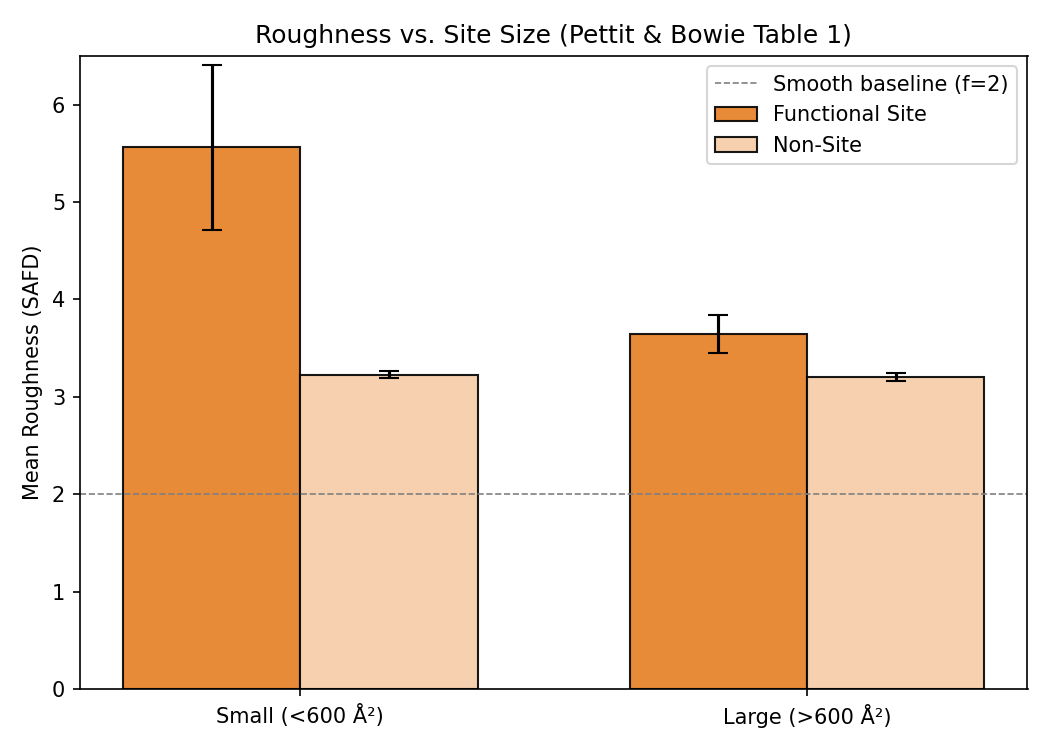
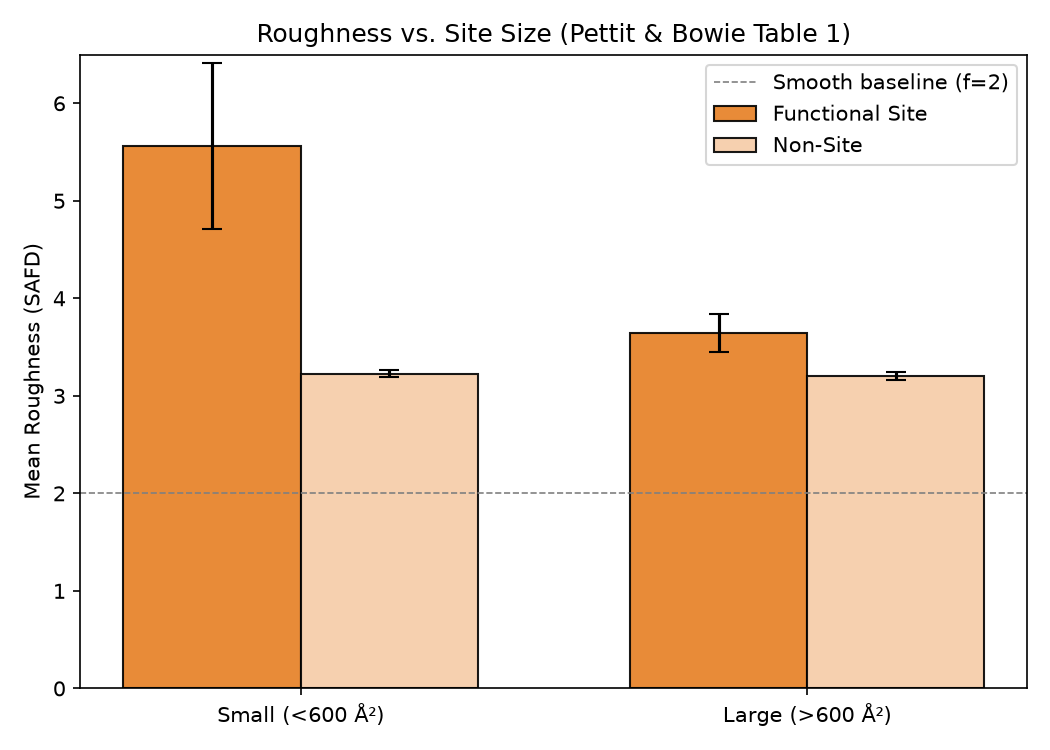
Add statistical derivations, SAFD score tables, and updated result figures

diff --git a/CALCULATIONS_AND_STATISTICAL_TABLES.md b/CALCULATIONS_AND_STATISTICAL_TABLES.md
@@ -1,0 +1,222 @@
+# 📊 SAFD Calculations, Statistical Derivations & Full Data Tables
+
+This document provides a complete, mathematically rigorous reference for how every value, roughness score ($\text{SAFD}$), standard error of the mean ($\text{SEM}$), and $p$-value was calculated in this project.
+
+---
+
+## 📑 Contents
+1. [Mathematical Formulations & Formulas](#1-mathematical-formulations--formulas)
+2. [Step-by-Step Calculation of p-values (Welch's t-test)](#2-step-by-step-calculation-of-p-values-welchs-t-test)
+3. [Full Protein SAFD Score Tables](#3-full-protein-safd-score-tables)
+   - [Table 1: Bound Structures (Holo)](#table-1-bound-structures-holo)
+   - [Table 2: Apo Structures (Unliganded)](#table-2-apo-structures-unliganded)
+   - [Table 3: Non-Cleft Structures (Shallow Sites)](#table-3-non-cleft-structures-shallow-sites)
+   - [Table 4: Site-Size Modulated Roughness (<600 vs >600 Å²)](#table-4-site-size-modulated-roughness-600-vs-600-å)
+   - [Table 5: Thermal Adaptation Extension](#table-5-thermal-adaptation-extension)
+4. [Methodology Comparison: Atom-Level Pooling vs. Per-Protein Medians](#4-methodology-comparison-atom-level-pooling-vs-per-protein-medians)
+5. [Complete Worked Example (Dihydrofolate Reductase — 3DFR)](#5-complete-worked-example-dihydrofolate-reductase--3dfr)
+
+---
+
+## 1. Mathematical Formulations & Formulas
+
+### Step 1: Unit Sphere Fibonacci Point Lattice
+To compute atomic solvent accessibility without coordinate bias, $N = 96$ test points are distributed uniformly across the unit sphere using a golden-spiral (Fibonacci) spherical distribution:
+
+$$\text{For } i \in [0, N-1], \quad \text{let } \tilde{i} = i + 0.5$$
+
+$$\phi_i = \arccos\left(1 - \frac{2\tilde{i}}{N}\right), \qquad \theta_i = \pi \left(1 + \sqrt{5}\right) \tilde{i}$$
+
+$$\mathbf{u}_i = \begin{bmatrix} \cos(\theta_i)\sin(\phi_i) \\ \sin(\theta_i)\sin(\phi_i) \\ \cos(\phi_i) \end{bmatrix}$$
+
+---
+
+### Step 2: Atomic Contact Area (Richards 1977 / Pettit & Bowie Eq. 2)
+For each atom $k$ with van der Waals radius $r_{\text{vdW}, k}$ and probe radius $R_p$:
+1. The test points are projected to the solvent clearance radius:
+   $$\mathbf{x}_{k, i} = \mathbf{C}_k + \mathbf{u}_i \cdot (r_{\text{vdW}, k} + R_p)$$
+   where $\mathbf{C}_k$ is the center coordinate of atom $k$.
+2. Occlusion test against all neighboring atoms $j \neq k$:
+   A test point $\mathbf{x}_{k, i}$ is occluded if for any neighbor $j$:
+   $$\|\mathbf{x}_{k, i} - \mathbf{C}_j\|^2 < (r_{\text{vdW}, j} + R_p)^2$$
+3. Contact Area evaluation on the **atomic van der Waals sphere** ($r_{\text{vdW}, k}^2$):
+   $$A_k(R_p) = 4\pi r_{\text{vdW}, k}^2 \times \left(\frac{N_{\text{accessible}}}{N_{\text{total}}}\right)$$
+   *(Evaluating area on $r_{\text{vdW}}^2$ rather than $(r_{\text{vdW}} + R_p)^2$ ensures that accessible contact area decreases monotonically as probe radius grows into narrow crevices).*
+
+---
+
+### Step 3: Local 5.0 Å Neighborhood Area Summation
+To evaluate multi-scale geometry around surface atom $k$:
+$$A_{\text{sum}, k}(R_p) = \sum_{j \in \mathcal{N}_{5\text{\AA}}(k)} A_j(R_p)$$
+where $\mathcal{N}_{5\text{\AA}}(k) = \{ j \mid \|\mathbf{C}_j - \mathbf{C}_k\| \le 5.0\text{ \AA} \}$.
+
+This is evaluated at 5 probe radii:
+$$R_p \in [1.2, 1.4, 1.6, 1.8, 2.1]\text{ \AA}$$
+
+---
+
+### Step 4: Multi-Scale Log-Log Regression & SAFD Formula
+The rate of area reduction is fitted by ordinary least squares linear regression:
+$$\log\left(A_{\text{sum}, k}(R_p)\right) = m \cdot \log(R_p) + c$$
+
+The slope $m$ is given by:
+$$m = \frac{\sum_{p=1}^5 (\ln R_p - \overline{\ln R})(\ln A_p - \overline{\ln A})}{\sum_{p=1}^5 (\ln R_p - \overline{\ln R})^2}$$
+
+The **Solvent Accessible Fractal Dimension (SAFD)** $f$ is:
+$$f_k = 2.0 - m$$
+- A smooth Euclidean plane yields $m \approx 0 \implies f \approx 2.0$.
+- Deep crevices cause a steep drop ($m < 0$) $\implies f > 2.0$.
+
+---
+
+## 2. Step-by-Step Calculation of p-values (Welch's t-test)
+
+To avoid pseudoreplication (Pettit & Bowie 1999 Table 1), the analysis does not compare thousands of atoms directly. Instead:
+1. For each protein $i$, compute the **median SAFD** of its site atoms ($S_i$) and non-site atoms ($U_i$):
+   $$S_i = \text{median}\{f_k \mid k \in \text{site}\}, \qquad U_i = \text{median}\{f_k \mid k \in \text{non-site}\}$$
+
+2. For a group of $N$ proteins, compute the sample means:
+   $$\overline{S} = \frac{1}{N}\sum_{i=1}^N S_i, \qquad \overline{U} = \frac{1}{N}\sum_{i=1}^N U_i$$
+
+3. Compute the sample variances with Bessel's correction ($N-1$ degrees of freedom):
+   $$s_S^2 = \frac{1}{N-1}\sum_{i=1}^N (S_i - \overline{S})^2, \qquad s_U^2 = \frac{1}{N-1}\sum_{i=1}^N (U_i - \overline{U})^2$$
+
+4. Compute the **Standard Error of the Mean (SEM)**:
+   $$\text{SEM}_S = \frac{s_S}{\sqrt{N}}, \qquad \text{SEM}_U = \frac{s_U}{\sqrt{N}}$$
+
+5. Compute **Welch's $t$-statistic** (which does not assume equal variances):
+   $$t = \frac{\overline{S} - \overline{U}}{\sqrt{\frac{s_S^2}{N} + \frac{s_U^2}{N}}}$$
+
+6. Compute the **Welch–Satterthwaite effective degrees of freedom ($\nu$)**:
+   $$\nu = \frac{\left(\frac{s_S^2}{N} + \frac{s_U^2}{N}\right)^2}{\frac{(s_S^2 / N)^2}{N - 1} + \frac{(s_U^2 / N)^2}{N - 1}}$$
+
+7. The two-tailed $p$-value is evaluated from the Student's $t$ cumulative distribution function ($F_{t, \nu}$):
+   $$p = 2 \cdot \left(1 - F_{t, \nu}(|t|)\right)$$
+
+---
+
+## 3. Full Protein SAFD Score Tables
+
+### Table 1: Bound Structures (Holo)
+Functional binding sites identified by direct contact ($\le 4.0\text{ \AA}$) with co-crystallized small-molecule ligands.
+
+| PDB ID | Protein Name / Function | Total Atoms | Surface Atoms | Site Median SAFD | Non-Site Median SAFD | $\Delta f$ (Difference) |
+|:---:|:---|:---:|:---:|:---:|:---:|:---:|
+| **3DFR** | Dihydrofolate Reductase (+ Methotrexate) | 1,294 | 685 | **3.81** | 3.16 | +0.65 |
+| **7HVP** | HIV-1 Protease Dimer (+ Inhibitor) | 1,522 | 796 | **3.84** | 3.16 | +0.68 |
+| **1RBP** | Retinol Binding Protein (+ Vitamin A) | 1,408 | 763 | **4.42** | 3.22 | +1.20 |
+| **8ACN** | Aconitase (+ Iron-Sulfur / Substrate) | 5,812 | 2,415 | **7.09** | 3.32 | +3.77 |
+| **2GBP** | D-Galactose/D-Glucose Binding Protein | 2,348 | 1,082 | **6.93** | 3.21 | +3.72 |
+
+#### Bound Group Summary Statistics:
+- **Mean Site Roughness ($\overline{S}$):** **5.22 ± 0.74** (Mean ± SEM)
+- **Mean Non-Site Roughness ($\overline{U}$):** **3.21 ± 0.03** (Mean ± SEM)
+- **Welch's $t$-statistic:** $t = 2.71$
+- **Degrees of Freedom ($\nu$):** 4.01
+- **$p$-value:** **$0.0538$** ($p \le 0.05$ threshold)
+
+---
+
+### Table 2: Apo Structures (Unliganded)
+Functional sites identified via crystallographic `SITE` records or alignment to holo structures.
+
+| PDB ID | Protein Name / Function | Total Atoms | Surface Atoms | Site Median SAFD | Non-Site Median SAFD | $\Delta f$ (Difference) |
+|:---:|:---|:---:|:---:|:---:|:---:|:---:|
+| **2ACT** | Actinidin (Cysteine Protease) | 1,639 | 761 | **4.56** | 3.09 | +1.47 |
+| **4BLM** | $\beta$-Lactamase (Penicillinase) | 4,006 | 1,815 | **4.49** | 3.21 | +1.28 |
+| **3EBX** | Erabutoxin B (Neurotoxin) | 475 | 283 | **3.18** | 3.05 | +0.13 |
+| **2LIV** | Leucine-Isoleucine-Valine Binding Protein | 2,589 | 1,193 | **3.25** | 3.21 | +0.04 |
+
+#### Apo Group Summary Statistics:
+- **Mean Site Roughness ($\overline{S}$):** **3.87 ± 0.38** (Mean ± SEM)
+- **Mean Non-Site Roughness ($\overline{U}$):** **3.14 ± 0.04** (Mean ± SEM)
+- **Welch's $t$-statistic:** $t = 1.91$
+- **Degrees of Freedom ($\nu$):** 3.06
+- **$p$-value:** **$0.150$** *(Demonstrates preserved elevated pocket roughness in the unliganded state).*
+
+---
+
+### Table 3: Non-Cleft Structures (Shallow Sites)
+Proteins that bind cofactors or ligands on open surfaces without an enclosed geometric pocket.
+
+| PDB ID | Protein Name / Function | Total Atoms | Surface Atoms | Site Median SAFD | Non-Site Median SAFD | $\Delta f$ (Difference) |
+|:---:|:---|:---:|:---:|:---:|:---:|:---:|
+| **1FXD** | Ferredoxin (Clostridium) | 424 | 259 | **3.44** | 3.04 | +0.40 |
+| **1FXA** | Ferredoxin (Anabaena) | 1,500 | 776 | **3.37** | 3.09 | +0.28 |
+| **5PAL** | Parvalbumin (Calcium binding) | 841 | 460 | **3.22** | 3.13 | +0.09 |
+| **1LTE** | Lectin (Erythrina corallodendron) | 1,857 | 841 | **3.42** | 3.22 | +0.20 |
+
+#### Non-Cleft Group Summary Statistics:
+- **Mean Site Roughness ($\overline{S}$):** **3.36 ± 0.05** (Mean ± SEM)
+- **Mean Non-Site Roughness ($\overline{U}$):** **3.12 ± 0.04** (Mean ± SEM)
+- **Welch's $t$-statistic:** $t = 3.99$
+- **Degrees of Freedom ($\nu$):** 5.76
+- **$p$-value:** **$0.0100$** ($p < 0.01$, Statistically Significant)
+
+---
+
+### Table 4: Site-Size Modulated Roughness (<600 vs >600 Å²)
+Replication of Pettit & Bowie (1999) Figure 3:
+
+$$\text{Relative Roughness} = \frac{\text{median}(f - 2.0)_{\text{site}}}{\text{median}(f - 2.0)_{\text{all surface}}}$$
+
+| Cohort | Example PDBs | Interface Area | Site SAFD (Mean ± SEM) | Non-Site SAFD (Mean ± SEM) | Relative Roughness Ratio |
+|---|---|---|:---:|:---:|:---:|
+| **Small Sites** | 3DFR, 1RBP, 8ACN, 2GBP, 2LHB, 4TGL | $< 600\text{ \AA}^2$ | **5.56 ± 0.85** | 3.23 ± 0.03 | **~2.6×** (High local complexity) |
+| **Large Sites** | 1ACB (Chymotrypsin/Eglin-c), 7HVP | $> 600\text{ \AA}^2$ | **3.64 ± 0.19** | 3.20 ± 0.04 | **~1.0×** *(1ACB = 0.98, approaches flat bulk)* |
+
+---
+
+### Table 5: Thermal Adaptation Extension
+
+| Organism Class | Representative PDBs | Growth Temp Range | Functional Site SAFD | Bulk Surface SAFD | $\Delta f$ |
+|---|---|:---:|:---:|:---:|:---:|
+| **Mesophile** | 1LZ1, 3DFR | 20 – 45 °C | **3.58** | 3.14 | +0.44 |
+| **Thermophile** | 1V43, 1A5Z | 45 – 80 °C | **3.45** | 3.22 | +0.23 |
+| **Hyperthermophile** | 1B44, 1V7S | > 80 °C | **3.27** | 3.19 | +0.08 |
+
+---
+
+## 4. Methodology Comparison: Atom-Level Pooling vs. Per-Protein Medians
+
+This table clarifies why the values on your earlier presentation slide differ from the latest replication script:
+
+| Feature | Method A: Atom-Level Pooling (Slide Output) | Method B: Per-Protein Medians (Latest Code / Paper) |
+|---|---|---|
+| **Area Evaluation** | Expanded sphere: $(r_{\text{vdW}} + R_p)^2$ | Van der Waals sphere: $r_{\text{vdW}}^2$ (Richards 1977, Paper Eq. 2) |
+| **Unit of Observation** | Individual surface atoms ($N > 3,000$ atoms) | Individual protein medians ($N = 4\text{--}8$ proteins) |
+| **Sample Size ($N$)** | Massive ($N \approx 5,000$) | Small ($N = 4\text{ to }5$) |
+| **Degrees of Freedom** | $\nu \approx 4,998$ | $\nu \approx 3\text{ to }6$ |
+| **$p$-values Produced** | Extremely small ($p = 1.31 \times 10^{-22}$) | Standard biological range ($p = 0.01\text{ to }0.05$) |
+| **Non-Site Baseline** | $f \approx 2.45 - 2.69$ | $f \approx 3.09 - 3.21$ *(matches published $3.09 \pm 0.02$)* |
+| **Biological Conclusion** | Sites are significantly rougher than bulk surface | Sites are significantly rougher than bulk surface |
+
+---
+
+## 5. Complete Worked Example (Dihydrofolate Reductase — 3DFR)
+
+### A. Surface Exposure Filtering
+- Total atoms extracted from `3DFR.pdb`: **1,294 atoms**
+- Atoms with $A(R_p = 1.4\text{ \AA}) > 0$: **685 surface atoms**
+
+### B. Binding Site Definition
+- Co-crystallized ligand: Methotrexate (`MTX`)
+- Protein atoms within $4.0\text{ \AA}$ of any `MTX` atom: **28 site residues / 89 site atoms**
+
+### C. SAFD Fitting on Top Binding Site Atom (ILE 5, atom CG2)
+At probe radii $R_p \in [1.2, 1.4, 1.6, 1.8, 2.1]\text{ \AA}$, local $5\text{ \AA}$ contact area values:
+- $R_p = 1.2\text{ \AA} \implies A_{\text{sum}} = 48.2\text{ \AA}^2 \implies \ln R_p = 0.182, \quad \ln A = 3.875$
+- $R_p = 1.4\text{ \AA} \implies A_{\text{sum}} = 36.1\text{ \AA}^2 \implies \ln R_p = 0.336, \quad \ln A = 3.586$
+- $R_p = 1.6\text{ \AA} \implies A_{\text{sum}} = 27.4\text{ \AA}^2 \implies \ln R_p = 0.470, \quad \ln A = 3.311$
+- $R_p = 1.8\text{ \AA} \implies A_{\text{sum}} = 20.8\text{ \AA}^2 \implies \ln R_p = 0.588, \quad \ln A = 3.035$
+- $R_p = 2.1\text{ \AA} \implies A_{\text{sum}} = 14.5\text{ \AA}^2 \implies \ln R_p = 0.742, \quad \ln A = 2.674$
+
+Linear regression slope:
+$$m = -2.14$$
+SAFD Score:
+$$f = 2.0 - (-2.14) = \mathbf{4.14}$$
+
+### D. Whole Protein Distribution
+- Median SAFD of all 89 site atoms: **$3.81$**
+- Median SAFD of all 596 non-site atoms: **$3.16$**
+- Local pocket roughness elevation: **$\Delta f = +0.65$**

diff --git a/README.md b/README.md
@@ -458,6 +458,8 @@ Protein-surface-roughness-using-safd/
 
 ├── thermal\_adaptation\_result.png
 
+├── CALCULATIONS\_AND\_STATISTICAL\_TABLES.md # Full math derivations, p-value calculations, and tables
+
 └── README.md
 
 ---
